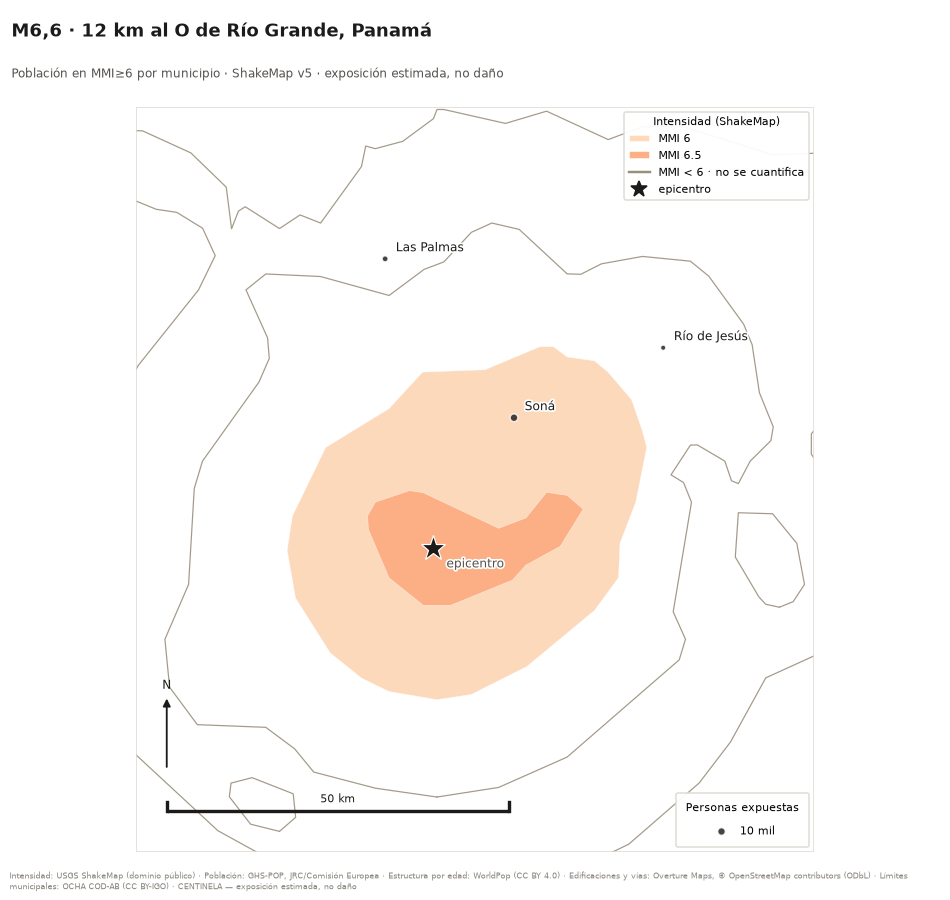
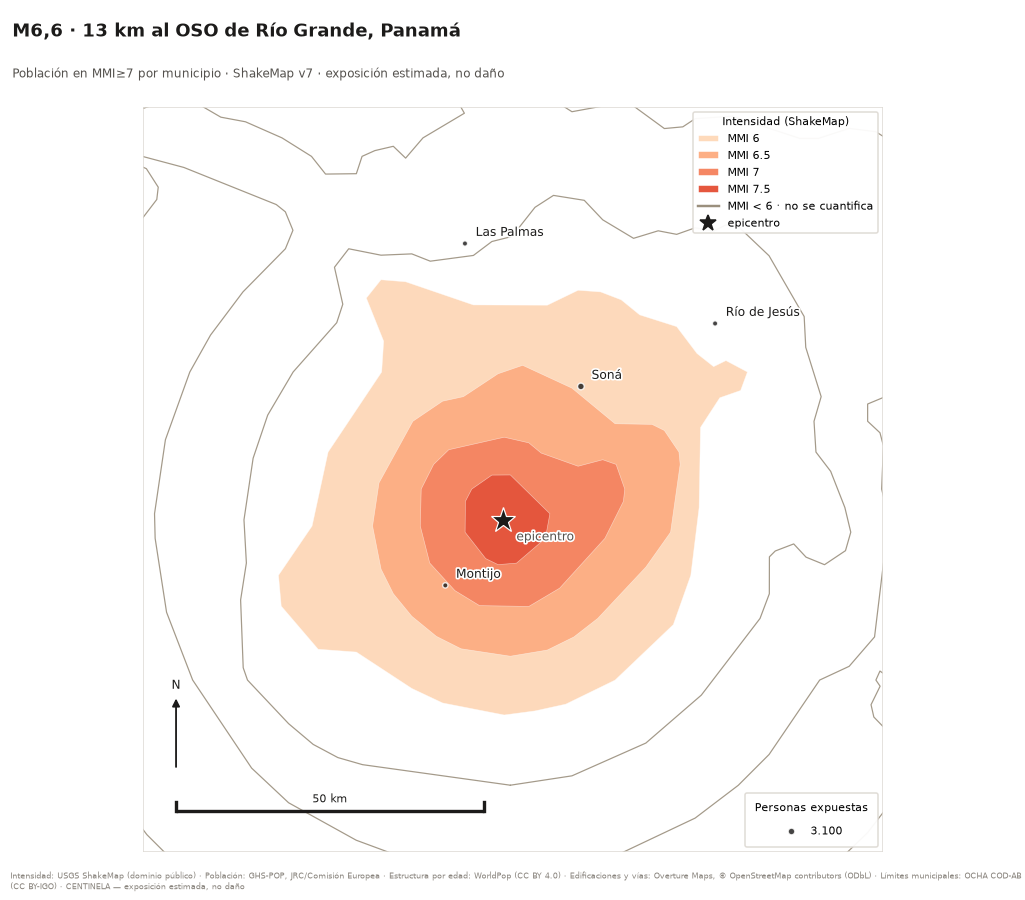
P3: reporte de pt26282001

diff --git a/reports/pt26282001/report.md b/reports/pt26282001/report.md
@@ -1,42 +1,41 @@
-# Exposición sísmica: M6,6 · 12 km al O de Río Grande, Panamá
+# Exposición sísmica: M6,6 · 13 km al OSO de Río Grande, Panamá
 
-**Evento USGS:** `pt26282001` · **Origen:** 2026-10-09T20:25:40Z UTC · **Profundidad:** 24,0 km
+**Evento USGS:** `pt26282001` · **Origen:** 2026-10-09T20:25:40Z UTC · **Profundidad:** 10,0 km
 
 ## Exposición estimada
 
 | Indicador | Estimado |
 |---|---:|
-| Población en MMI≥6 | 12 mil |
-| Población en MMI≥7 | el evento no llegó a esta banda |
+| Población en MMI≥6 | 24 mil |
+| Población en MMI≥7 | 3.100 |
 | Población en MMI≥8 | el evento no llegó a esta banda |
-| Edificaciones en MMI≥6 | 8.200 |
-| Sedes de salud en MMI≥6 | 3 |
-| Sedes educativas en MMI≥6 | 3 |
-| Vías primarias y secundarias en MMI≥6 | 43 km |
-| Vías locales en MMI≥6 | 250 km |
-| Superficie construida en MMI≥6 | 0,9 km² |
+| Edificaciones en MMI≥7 | 2.100 |
+| Sedes de salud en MMI≥7 | 0 |
+| Sedes educativas en MMI≥7 | 2 |
+| Vías primarias y secundarias en MMI≥7 | 8 km |
+| Vías locales en MMI≥7 | 36 km |
+| Superficie construida en MMI≥7 | 0,2 km² |
 
 Las cifras de esta tabla van redondeadas a dos cifras significativas, que es la precisión que un modelo de exposición sostiene. Las exactas están en el CSV municipal y en `report.json`.
 
-De la población en intensidad MMI≥6, alrededor de **1.600** personas tienen 65 años o más.
+De la población en intensidad MMI≥7, alrededor de **330** personas tienen 65 años o más.
 
-## Municipios más expuestos, por población en MMI≥6
+## Municipios más expuestos, por población en MMI≥7
 
-| # | Municipio | Código | MMI max | Población MMI≥6 |
+| # | Municipio | Código | MMI max | Población MMI≥7 |
 |---:|---|---|---:|---:|
-| 1 | Soná | `PA1312` | 6,5 | 11 mil |
-| 2 | Las Palmas | `PA1305` | 6,0 | 640 |
+| 1 | Soná | `PA1312` | 7,5 | 3.100 |
 
 ## Deslizamiento y licuefacción
 
-- **Deslizamiento.** Población en celdas de MMI≥6 donde el modelo espera ≥ 0,10 de probabilidad de deslizamiento según `jessee_2018_model.tif`: **0**.
-- **Licuefacción.** Población en celdas de MMI≥6 donde el modelo espera ≥ 0,10 de cobertura areal por licuefacción según `zhu_2017_general_model.tif`: **1.700**. USGS declara para este evento alerta **naranja**, con 3.300 expuestas.
+- **Deslizamiento.** Población en celdas de MMI≥6 donde el modelo espera ≥ 0,10 de probabilidad de deslizamiento según `jessee_2018_model.tif`: **0**. USGS declara para este evento alerta **amarilla**, con 12 expuestas. El cero de arriba no dice que no haya exposición: dice que ninguna celda llega al umbral.
+- **Licuefacción.** Población en celdas de MMI≥6 donde el modelo espera ≥ 0,10 de cobertura areal por licuefacción según `zhu_2017_general_model.tif`: **11 mil**. USGS declara para este evento alerta **naranja**, con 3.000 expuestas.
 
 Las dos cifras se cuentan sobre las celdas del corte publicado (MMI≥6). **No son las de USGS y no se pueden comparar de frente**: aquí se cuenta la población entera de toda celda por encima del umbral, y USGS pondera la población de cada celda por el valor de esa celda. Son dos preguntas distintas sobre el mismo ráster.
 
 **Y el umbral se evalúa en un solo punto por celda: su centroide.** El píxel del ráster es más pequeño que la celda, así que ese punto decide si entra la población entera de la celda o no entra ninguna. No es una estadística areal, y el sesgo que introduce no está medido: puede quedarse corto o pasarse.
 
-Fuente: producto *Ground Failure* de USGS (v4), dominio público.
+Fuente: producto *Ground Failure* de USGS (v5), dominio público.
 
 ## Referencia cruzada
 
@@ -46,10 +45,20 @@ Las dos cifras **no se tabulan igual** y no se pueden leer una contra otra: PAGE
 
 ## Incertidumbre y calidad
 
-Discrepancia entre GHS-POP y WorldPop en las bandas MMI publicadas: **6,8 %**.
+Discrepancia entre GHS-POP y WorldPop en las bandas MMI publicadas: **5,9 %**.
 
 ## Cambios frente a la versión anterior
 
+- ShakeMap: v5 (us) → v7 (us)
+- Ground Failure: v4 (us) → v5 (us)
+- Profundidad: 24 → 10 km
+- Epicentro: reubicado 3 km
+- Población en MMI≥6: 12 mil → 24 mil
+- Población en MMI≥7: 0 → 3.100
+- Población de 65 años o más en MMI≥7: 0 → 330
+- Edificaciones en MMI≥7: 0 → 2.100
+- Sedes educativas en MMI≥7: 0 → 2
+- Población en cobertura areal alta por licuefacción: 1.700 → 11 mil
 - ShakeMap: v4 (us) → v5 (us)
 - Ground Failure: v3 (us) → v4 (us)
 - Profundidad: 10 → 24 km
@@ -82,10 +91,10 @@ Discrepancia entre GHS-POP y WorldPop en las bandas MMI publicadas: **6,8 %**.
 
 ## Procedencia
 
-- ShakeMap consumido: **v5** de `us`
-- Ground Failure consumido: **v4** de `us`
+- ShakeMap consumido: **v7** de `us`
+- Ground Failure consumido: **v5** de `us`
 - Manifiesto de exposición: [`pan-v0.5`](https://github.com/sforero77/CENTINELA/blob/main/data/manifests/PAN.yaml)
-- Pipeline: `0.1.0` · Generado: 2026-11-02T17:14:20Z
+- Pipeline: `0.1.0` · Generado: 2026-11-05T13:21:15Z
 
 ## Advertencias
 
